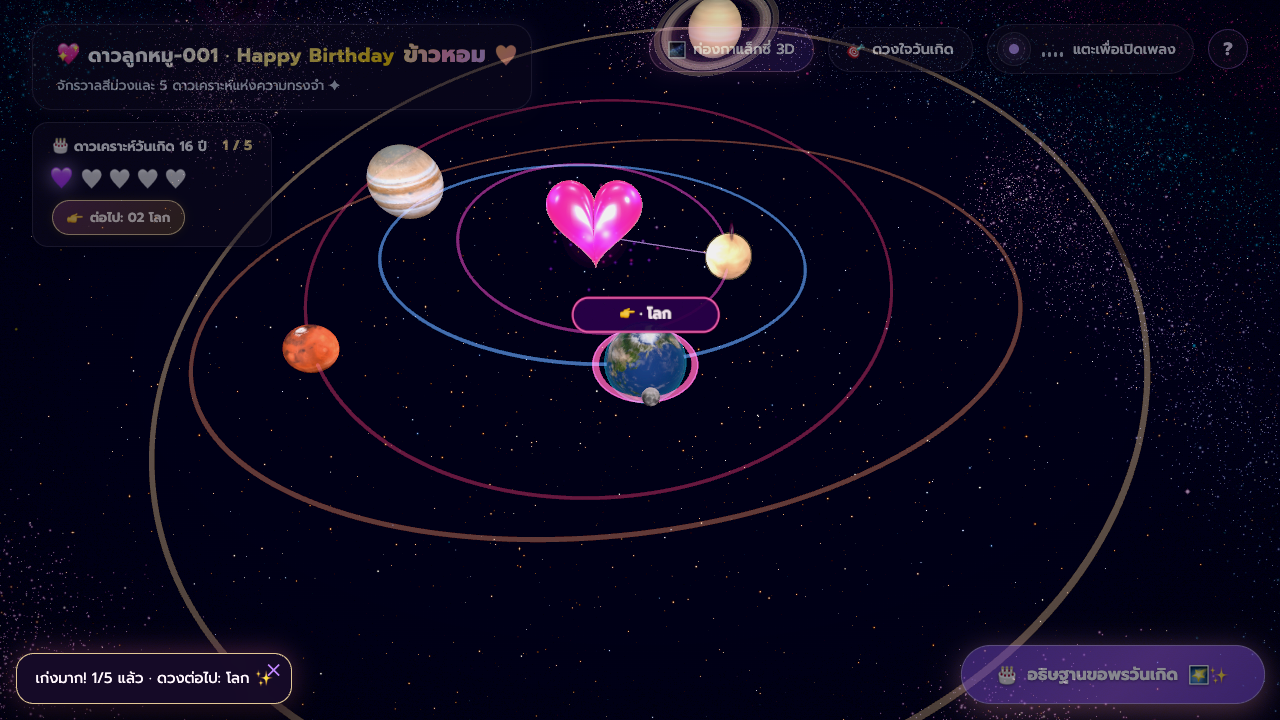
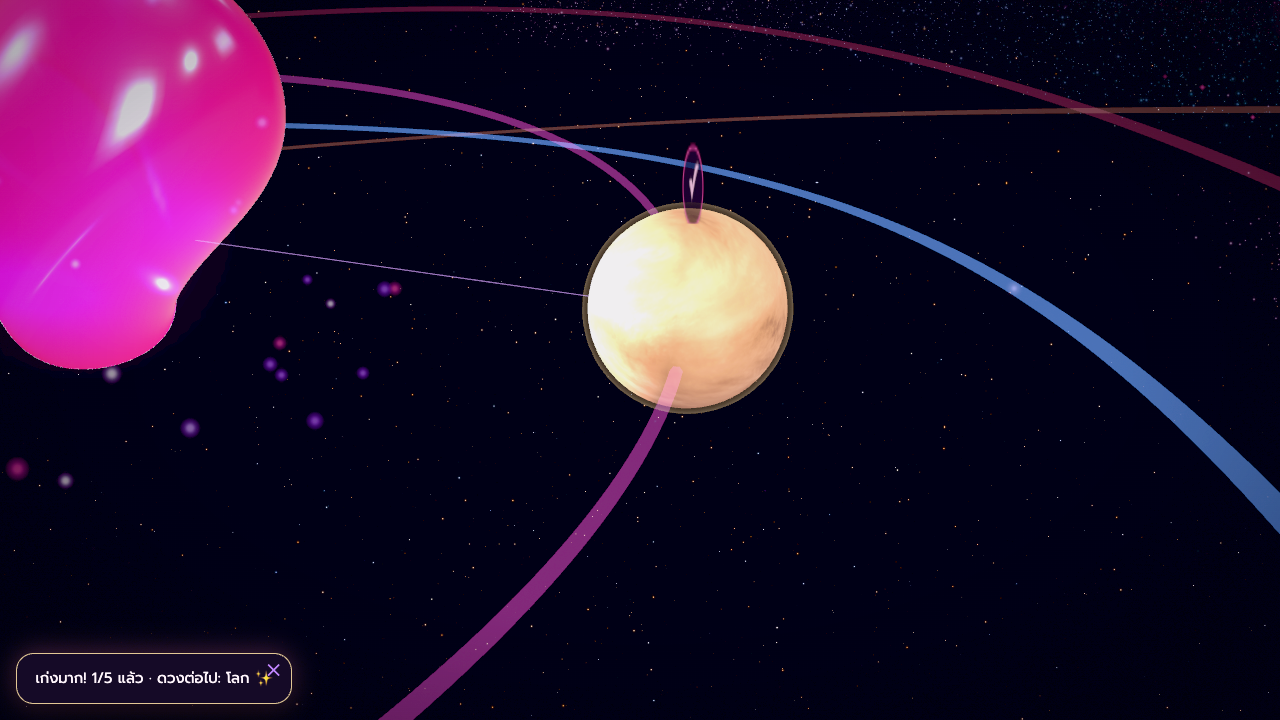
feat: round 12 fix mobile resize camera jump, raycaster click-through, epilogue loop, and tilt button id

diff --git a/src/main.js b/src/main.js
@@ -56,6 +56,9 @@ const flow = createFlow({
     if (previous === 'FINALE_CAKE' && next !== 'FINALE_CAKE') {
       cancelCelebration();
     }
+    if (next === 'EPILOGUE') {
+      hasCompletedFinaleOnce = true;
+    }
     const grade = {
       FLIGHT: [0.9, 0.96, 1.06], ARRIVAL: [1.03, 0.93, 1.04], MEMORY: [1.02, 0.98, 1.04],
       FINALE_ALIGN: [1.04, 0.98, 0.92], FINALE_HEART: [1.08, 0.99, 0.94], FINALE_CAKE: [1.06, 0.98, 0.92]
@@ -275,6 +278,7 @@ let cinemaButton = null;
 const activeAuroras = new Set();
 const activeWorldTexts = new Set();
 let finaleSequenceStarted = false;
+let hasCompletedFinaleOnce = false;
 let finaleWorldText = null;
 let qaFocusPlanet = null;
 const tiltState = { enabled: false, targetX: 0, targetY: 0, currentX: 0, currentY: 0, appliedX: 0, appliedY: 0, button: null };
@@ -284,6 +288,7 @@ function setupTiltMode() {
   if (uiDirector.entries.some((entry) => entry.id === 'tilt-mode')) return;
   const button = document.createElement('button');
   button.type = 'button';
+  button.id = 'btn-tilt';
   button.className = 'tilt-mode-button';
   button.textContent = 'เปิดโหมดเอียงเครื่อง';
   button.setAttribute('aria-pressed', 'false');
@@ -349,12 +354,13 @@ function showEpilogueActions() {
     flow.go('EXPLORE');
     flyToPlanet(1);
   });
-  panel.querySelector('[data-action="cake"]').addEventListener('click', startFinaleSequence);
+  panel.querySelector('[data-action="cake"]').addEventListener('click', () => startFinaleSequence(true));
   panel.querySelector('[data-action="capture"]').addEventListener('click', () => { captureRequestPending = true; });
   return handle;
 }
 
 function enterEpilogue() {
+  hasCompletedFinaleOnce = true;
   if (finaleWorldText) { finaleWorldText.dispose(); finaleWorldText = null; }
   finaleSequenceStarted = false;
   uiDirector.hideAll();
@@ -403,7 +409,10 @@ function dismissFinaleAfterCake() {
     const letter = document.createElement('div');
     letter.className = 'finale-letter-card';
     const text = document.createElement('p');
-    letter.append(text);
+    const hint = document.createElement('span');
+    hint.className = 'finale-letter-hint';
+    hint.textContent = 'แตะเพื่อข้าม ✨';
+    letter.append(text, hint);
     let index = 0;
     const handle = uiDirector.show({ id: 'finale-letter', zone: 'center-stage', layer: 'cinematic', exclusive: true, ttl: 8000, element: letter, states: ['FINALE_LETTER'] });
     const timer = window.setInterval(() => {
@@ -786,6 +795,7 @@ window.__qaDebug = {
   get bokehPass() { return bokehPass; },
   get outputPass() { return outputPass; },
   get camera() { return camera; },
+  get controls() { return controls; },
   get starGate() { return starGate; },
   get flow() { return flow; },
   get currentQuality() { return currentQuality; },
@@ -1334,7 +1344,7 @@ const polaroidModal = new PolaroidModal({
   },
   onBackToGalaxy: () => {
     uiDirector.setModalOpen(false);
-    if (progress.isComplete()) {
+    if (progress.isComplete() && !hasCompletedFinaleOnce) {
       flow.go('EXPLORE');
       returnToCenterOrbit();
       guideDirector?.showBubble(GUIDE_COPY.memory.last, { ttl: 2600, zone: 'bottom-left' });
@@ -1642,6 +1652,8 @@ if (queryFlags.qaScene === 'intro-clean') {
     progress.markVisited(planet.id);
   }
   showCakeActions();
+  gsap.killTweensOf(camera.position);
+  gsap.killTweensOf(controls.target);
   if (queryFlags.qaScene === 'cake-top') {
     camera.position.set(0, 68, 48);
     controls.target.set(0, 8, -5);
@@ -1650,6 +1662,7 @@ if (queryFlags.qaScene === 'intro-clean') {
     camera.position.copy(isPortrait ? new THREE.Vector3(0, 54, 204) : new THREE.Vector3(0, 40, 120));
     controls.target.copy(isPortrait ? new THREE.Vector3(0, 10, -5) : new THREE.Vector3(0, 8, -5));
   }
+  controls.update();
 } else if (queryFlags.qaScene?.startsWith('arrival-')) {
   hud.hide();
   camera.position.copy(defaultCameraPos);
@@ -1734,6 +1747,7 @@ window.addEventListener('pointerup', (e) => {
   pointerDownPosition = null;
   if (wasDrag) return;
   if (polaroidModal.isOpen || isCinematicFlying || solarSystem.isTransitMode() || flow.state !== 'EXPLORE') return;
+  if (e.target !== canvas && e.target.closest?.('button, a, input, [role="button"], #hud-overlay, .ui-director-root, .guide-spotlight, .modal-backdrop')) return;
 
   if (!updatePointer(e)) return;
   raycaster.setFromCamera(pointer, camera);
@@ -1777,9 +1791,17 @@ window.addEventListener('resize', () => {
   defaultCameraTarget.set(heroPose.target.x, heroPose.target.y, heroPose.target.z);
   if (!isGalaxyView) controls.maxDistance = Math.max(240, defaultCameraPos.length() + 48);
   if (!isGalaxyView && !isCinematicFlying && !polaroidModal.isOpen) {
-    camera.fov = heroPose.fov;
-    gsap.to(camera.position, { ...heroPose.position, duration: 0.45, ease: 'power2.out' });
-    gsap.to(controls.target, { ...heroPose.target, duration: 0.45, ease: 'power2.out' });
+    if (flow.state === 'EXPLORE') {
+      camera.fov = heroPose.fov;
+      gsap.to(camera.position, { ...heroPose.position, duration: 0.45, ease: 'power2.out' });
+      gsap.to(controls.target, { ...heroPose.target, duration: 0.45, ease: 'power2.out' });
+    } else if (flow.state === 'FINALE_CAKE') {
+      const isPortrait = window.innerHeight > window.innerWidth;
+      const cakeCamPos = isPortrait ? new THREE.Vector3(0, 54, 204) : new THREE.Vector3(0, 40, 120);
+      const cakeTarget = isPortrait ? new THREE.Vector3(0, 10, -5) : new THREE.Vector3(0, 8, -5);
+      gsap.to(camera.position, { x: cakeCamPos.x, y: cakeCamPos.y, z: cakeCamPos.z, duration: 0.45, ease: 'power2.out', overwrite: true, onUpdate: () => controls.update() });
+      gsap.to(controls.target, { x: cakeTarget.x, y: cakeTarget.y, z: cakeTarget.z, duration: 0.45, ease: 'power2.out', overwrite: true });
+    }
   }
   camera.updateProjectionMatrix();
   renderer.setPixelRatio(Math.min(window.devicePixelRatio || 1, currentQuality.pixelRatio));

diff --git a/src/style.css b/src/style.css
@@ -1170,9 +1170,10 @@ body.cinema-portrait #webgl-canvas {
 .ui-action-slot button { min-height: 44px; }
 .ui-layer-cinematic { pointer-events: none; }
 .ui-layer-cinematic button { pointer-events: auto; }
-.finale-letter-card { width: min(88vw, 680px); padding: clamp(20px, 4vw, 38px); border: 1px solid rgba(255,226,245,.6); border-radius: 24px; color: #fff5fb; background: linear-gradient(145deg, rgba(42,20,59,.94), rgba(16,13,36,.96)); box-shadow: 0 20px 70px rgba(0,0,0,.55), inset 0 0 28px rgba(255,190,219,.08); text-align: center; font: 600 clamp(21px, 3vw, 34px)/1.6 'Mali', 'Prompt', sans-serif; }
-.finale-letter-card.lite { font-size: clamp(20px, 2.6vw, 30px); }
+.finale-letter-card { width: min(88vw, 680px); padding: clamp(20px, 4vw, 38px); border: 1px solid rgba(255,226,245,.6); border-radius: 24px; color: #fff5fb; background: linear-gradient(145deg, rgba(42,20,59,.94), rgba(16,13,36,.96)); box-shadow: 0 20px 70px rgba(0,0,0,.55), inset 0 0 28px rgba(255,190,219,.08); text-align: center; font: 600 clamp(21px, 3vw, 34px)/1.6 'Mali', 'Prompt', sans-serif; cursor: pointer; }
+.finale-letter-card.lite { font-size: clamp(20px, 2.6vw, 30px); cursor: default; }
 .finale-letter-card button { display: block; margin: 18px auto 0; padding: 10px 18px; border: 1px solid rgba(255,230,244,.55); border-radius: 999px; color: #fff; background: rgba(133,73,157,.55); font: 600 14px 'Prompt',sans-serif; }
+.finale-letter-hint { display: block; margin-top: 14px; font-size: 13px; font-weight: 400; opacity: 0.72; color: #fce7f3; }
 .ui-epilogue-actions { display: grid; gap: 8px; width: min(230px, calc(100vw - 32px)); }
 .ui-epilogue-actions button { min-height: 42px; padding: 7px 12px; border: 1px solid rgba(255,230,244,.5); border-radius: 14px; color: #fff6fc; background: rgba(30,18,49,.84); font: 500 13px 'Prompt',sans-serif; }
 

diff --git a/src/ui/introScreen.js b/src/ui/introScreen.js
@@ -14,6 +14,7 @@ export class IntroScreen {
     this.soundManager = soundManager;
     this.container = null;
     this.hasEntered = false;
+    this.greetingRevealed = false;
 
     this.initDOM();
     this.startCountdown();
@@ -127,6 +128,12 @@ export class IntroScreen {
   }
 
   revealGreeting() {
+    if (this.greetingRevealed) return;
+    this.greetingRevealed = true;
+    if (this.countdownTimer) {
+      clearTimeout(this.countdownTimer);
+      this.countdownTimer = null;
+    }
     const countdownWrap = this.container.querySelector('#intro-countdown-wrap');
     const greetingWrap = this.container.querySelector('#intro-greeting-wrap');
     const skipBtn = this.container.querySelector('#btn-skip-countdown');

diff --git a/src/ui/arrivalPopups.js b/src/ui/arrivalPopups.js
@@ -190,6 +190,7 @@ export function showGuideCardPrompt(uiDirector, { reducedMotion = false, onSelec
     element: guideEl,
     states: ['EXPLORE'],
     onClose: () => {
+      ledger.retire('explore-first');
       window.removeEventListener('memory-modal-opened', onCardOpen);
       guideEl.removeEventListener('click', onPillClick);
     }

diff --git a/src/scene/cosmicCake.js b/src/scene/cosmicCake.js
@@ -687,7 +687,7 @@ export function createCosmicCake(scene, quality = { tier: 'high' }, { enabled = 
       revealed = true;
       revealProgress = 1;
       group.position.set(0, -3, -5);
-      group.scale.setScalar(1);
+      group.scale.setScalar(2.05);
       blown = false;
       blowingOut = false;
       flames.forEach((flame) => {

diff --git a/แผนรอบ 12-แก้บั๊กกล้องหมุนหน้าจอมือถือ-คลิกทะลุUI-ทัวร์ปุ่ม-บั๊กนับถอยหลัง.md b/แผนรอบ 12-แก้บั๊กกล้องหมุนหน้าจอมือถือ-คลิกทะลุUI-ทัวร์ปุ่ม-บั๊กนับถอยหลัง.md
@@ -1,0 +1,59 @@
+# แผนรอบ 12: ตรวจพบและแก้ไขบั๊กเชิงลึก 8 จุด (กล้องมือถือ, คลิกทะลุ UI, ทัวร์ปุ่ม, ลูปความทรงจำฉากจบ)
+
+จากการตรวจสอบโค้ดอย่างละเอียดทั้งระบบ พบจุดบกพร่องที่ส่งผลต่อประสบการณ์ผู้ใช้ 8 จุดสำคัญ โดยจะทำการแก้ไขตามลำดับดังต่อไปนี้:
+
+---
+
+## 1. รายการบั๊กที่ตรวจพบและแนวทางแก้ไข
+
+### บั๊กที่ 1 (Critical): กล้องกระตุกหลุดตำแหน่งเมื่อหมุนจอมือถือหรือแถบเบราว์เซอร์เลื่อน
+- **ไฟล์:** `src/main.js` (บรรทัด 1779)
+- **ปัญหา:** ใน Event listener `resize` มีคำสั่งดึงกล้องกลับไปตำแหน่ง `heroPose` (วงโคจรกลาง) โดยเช็คแค่ `!isGalaxyView && !isCinematicFlying && !polaroidModal.isOpen`
+- **ผลกระทบ:** หากผู้ใช้กำลังดูเค้กวันเกิด (`FINALE_CAKE`) หรือกำลังโฟกัสดาว (`FOCUS`) แล้วหมุนโทรศัพท์แนวนอน-แนวตั้ง หรือเปิด/ปิดแถบ URL ของ Safari/Chrome กล้องจะถูกดีดกลับไปตำแหน่งเริ่มต้น หลุดจากฉากเค้กทันที
+- **วิธีแก้:** เช็คสถานะ `flow.state === 'EXPLORE'` ก่อนจัดมุมกล้อง `heroPose` และหากเป็น `FINALE_CAKE` ให้ปรับกล้องตามสัดส่วนจอเค้ก (Portrait `(0, 54, 204)` / Landscape `(0, 40, 120)`)
+
+### บั๊กที่ 2 (UX / Interaction): คลิกปุ่มบนหน้าจอแล้วทะลุไปโดนดาวเคราะห์ด้านหลัง (Raycaster Click-through)
+- **ไฟล์:** `src/main.js` (บรรทัด 1731)
+- **ปัญหา:** ใน `window.addEventListener('pointerup')` ไม่มีการตรวจสอบ `e.target` ว่าเป็นการคลิกปุ่ม UI บนหน้าจอหรือไม่
+- **ผลกระทบ:** เมื่อผู้ใช้แตะปุ่ม Next Chip, ปุ่มช่วยเหลือ `?`, หรือปุ่ม HUD แล้วมีดาวเคราะห์ลอยอยู่ข้างหลังปุ่มในเชิง 3D พิกัด Raycaster จะเล็งโดนดาวเคราะห์และพากล้องบินไปดาวโดยไม่ได้ตั้งใจ
+- **วิธีแก้:** เพิ่มเงื่อนไข `if (e.target !== canvas && e.target.closest('button, a, input, [role="button"], #hud-overlay, .ui-director-root, .guide-spotlight, .modal-backdrop')) return;` เพื่อสกัดกั้นการคลิกทะลุ
+
+### บั๊กที่ 3 (Flow Logic): ดูความทรงจำซ้ำในฉากจบ (Epilogue) แล้วปิดการ์ด บังคับเปิดเค้กซ้ำอัตโนมัติ
+- **ไฟล์:** `src/main.js` (บรรทัด 1337)
+- **ปัญหา:** ฟังก์ชัน `onBackToGalaxy()` มีคำสั่ง `if (progress.isComplete()) setTimeout(() => startFinaleSequence(), 1800)`
+- **ผลกระทบ:** ในฉากจบ (Epilogue) เมื่อผู้ใช้กด "ดูความทรงจำอีกครั้ง" แล้วเปิดอ่านดาวที่ 1 หรือ 2 แล้วกดปิด เนื่องจากดาวครบ 5 ดวงแล้ว (`isComplete() == true`) ระบบจะหน่วงเวลา 1.8 วิ แล้วดึงเข้าสู่ฉากเค้กซ้ำใหม่อัตโนมัติ ทั้งที่ผู้ใช้ต้องการแค่อ่านความทรงจำ
+- **วิธีแก้:** เพิ่มตัวแปร `hasCompletedFinaleOnce` เมื่อผ่าน Epilogue แล้วครั้งหนึ่ง หากปิดการ์ดจะให้กลับสู่วงโคจรปกติอย่างสงบ และผู้ใช้สามารถกดดูเค้กได้ตามใจชอบผ่านปุ่มการ์ด 05 หรือปุ่มในเมนูฉากจบ
+
+### บั๊กที่ 4 (DOM / Guide Tour): ปุ่มโหมดเอียงเครื่องไม่มี id `#btn-tilt` ทำให้ Help Sheet และ Tour พัง
+- **ไฟล์:** `src/main.js` (บรรทัด 287)
+- **ปัญหา:** `setupTiltMode()` สร้างปุ่มมีแค่ `className = 'tilt-mode-button'` แต่ไม่มี `id = 'btn-tilt'`
+- **ผลกระทบ:** `guideHelpSheet.js` ค้นหา `document.querySelector('#btn-tilt')` ได้ค่า null ทำให้หัวข้อ "โหมดเอียงเครื่อง" หายไปจากหน้าต่างช่วยเหลือ และ `guideTour.js` ที่อ้างอิง `#btn-tilt` ทำงานผิดพลาด
+- **วิธีแก้:** ใส่ `button.id = 'btn-tilt';` ให้กับปุ่มใน `setupTiltMode()`
+
+### บั๊กที่ 5 (Timing / Race Condition): กดข้ามการนับถอยหลังหน้าแรกพร้อมกับที่เวลานับถึง 0
+- **ไฟล์:** `src/ui/introScreen.js` (บรรทัด 114)
+- **ปัญหา:** เมื่อนับถอยหลังถึง 0 มี `setTimeout` 550ms ก่อนเรียก `revealGreeting()` หากผู้ใช้กด "ข้ามการนับถอยหลัง" ในช่วงเวลานี้ `revealGreeting()` จะถูกเรียกซ้ำ 2 ครั้ง ส่งผลให้เสียงระฆังฉลองดังสะท้อนเบิ้ล 2 รอบ
+- **วิธีแก้:** เพิ่ม Guard flag `this.greetingRevealed` ป้องกันการรันซ้ำ 100%
+
+### บั๊กที่ 6 (Guide Ledger): แถบแนะนำแตะดาวศุกร์หมดเวลาแล้วไม่บันทึกสถานะลง Ledger
+- **ไฟล์:** `src/ui/arrivalPopups.js` (บรรทัด 192)
+- **ปัญหา:** หากผู้ใช้ปล่อยให้แถบ "🌸 แตะดาวศุกร์ดวงแรกเลย 👉✨" หายไปเองตาม TTL 6 วินาที โดยไม่กด ตัวฟังก์ชัน `onClose` ไม่ได้สั่ง `ledger.retire('explore-first')`
+- **วิธีแก้:** เพิ่ม `ledger.retire('explore-first');` ในบล็อก `onClose`
+
+### บั๊กที่ 7 (Cake Scale): `cosmicCake.reset()` เซ็ตขนาดเป็น 1.0 แทนที่จะเป็น 2.05
+- **ไฟล์:** `src/scene/cosmicCake.js` (บรรทัด 690)
+- **ปัญหา:** `reset()` เซ็ต `group.scale.setScalar(1)` แต่ `reveal()` เซ็ต `group.scale.setScalar(2.05)` ทำให้โมเดลเค้กมีขนาดเล็กลงครึ่งหนึ่งหากถูกรีเซ็ต
+- **วิธีแก้:** ปรับขนาดใน `reset()` เป็น `group.scale.setScalar(2.05)`
+
+### บั๊กที่ 8 (UX Polish & Type Safety): การส่ง PointerEvent เข้าฟังก์ชัน `startFinaleSequence` และข้อความจดหมายฉากจบ
+- **ไฟล์:** `src/main.js` (บรรทัด 352, 403), `src/style.css`
+- **ปัญหา:** `addEventListener('click', startFinaleSequence)` ส่งออบเจกต์ PointerEvent เข้าพารามิเตอร์ `force` และการ์ดจดหมายฉากจบไม่มีข้อความบอกผู้ใช้ว่าสามารถแตะเพื่อข้ามได้
+- **วิธีแก้:** ใช้ arrow function `() => startFinaleSequence(true)` และเพิ่ม element `<span class="finale-letter-hint">แตะเพื่อข้าม ✨</span>` พร้อมสไตล์
+
+---
+
+## 2. ขั้นตอนการดำเนินการและเกณฑ์การทดสอบ
+1. แก้ไขไฟล์ตามแผนที่ระบุ
+2. รัน `npm run build` ตรวจสอบ Syntax และ Bundling
+3. รัน Visual QA (`scripts/visual-qa.mjs`) เพื่อทดสอบทั้งชุด Round 10 และ Round 11
+4. ตรวจสอบ Git status และทำ Commit พร้อม Push ขึ้น GitHub
